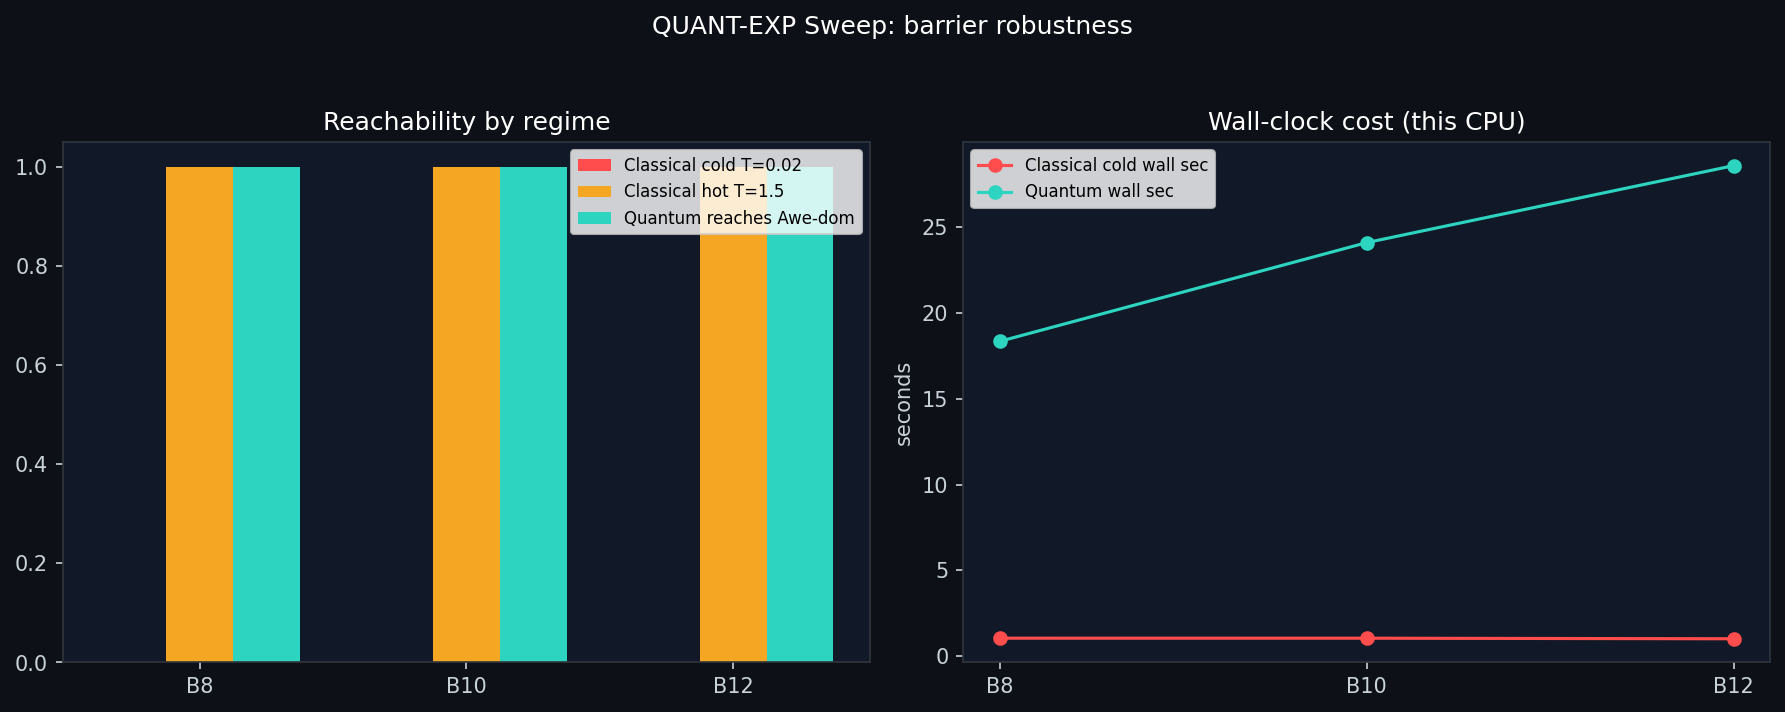
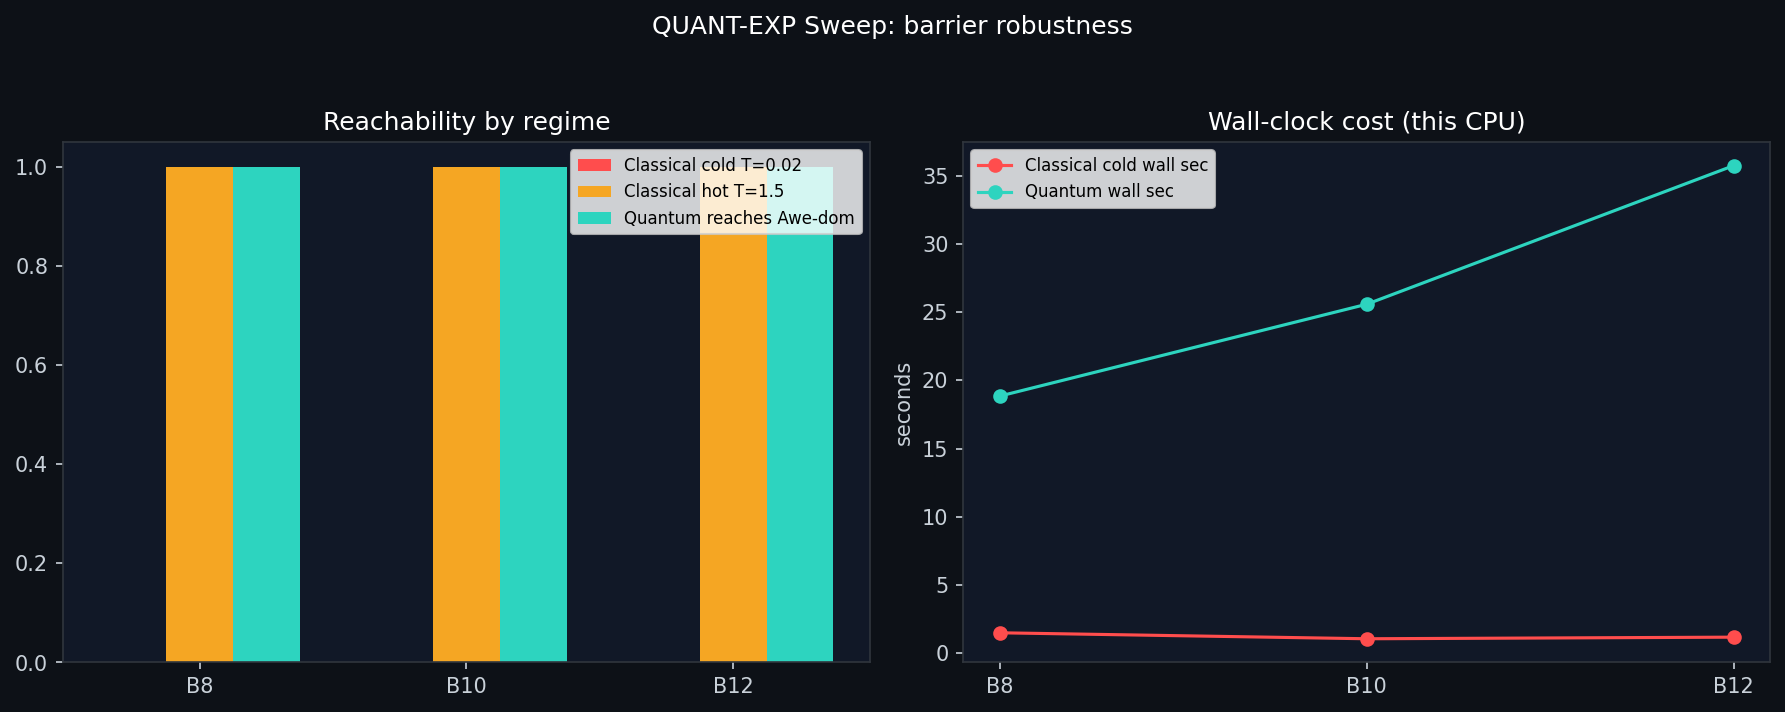
quant-exp: add sweep CIs and barrier-temperature phase diagram

diff --git a/instrument/quantum_experiment.py b/instrument/quantum_experiment.py
@@ -205,6 +205,17 @@ def anneal_schedule_s(
     return x
 
 
+def proportion_ci_wilson(successes: int, total: int, z: float = 1.96) -> tuple:
+    """Wilson score interval for a Bernoulli proportion (default ~95% CI)."""
+    if total <= 0:
+        return (0.0, 0.0)
+    p = successes / total
+    denom = 1.0 + (z * z) / total
+    center = (p + (z * z) / (2.0 * total)) / denom
+    radius = (z / denom) * np.sqrt((p * (1.0 - p) / total) + (z * z) / (4.0 * total * total))
+    return (float(max(0.0, center - radius)), float(min(1.0, center + radius)))
+
+
 def quantum_anneal(
     W: np.ndarray,
     b: np.ndarray,
@@ -422,7 +433,8 @@ def run_barrier_sweep(
                 reached += 1
                 first_hits.append(int(ix[0]))
         wall = time.perf_counter() - t0
-        return reached / seeds, (float(np.mean(first_hits)) if first_hits else None), wall
+        ci_lo, ci_hi = proportion_ci_wilson(reached, seeds)
+        return reached, reached / seeds, ci_lo, ci_hi, (float(np.mean(first_hits)) if first_hits else None), wall
 
     cases = [
         ('B8', -8.0, 4.0, 300),
@@ -435,8 +447,8 @@ def run_barrier_sweep(
         W[IDX['Fear'], IDX['Awe']] = barrier
         W[IDX['Awe'], IDX['Fear']] = barrier
 
-        cold_sr, cold_hit, cold_wall = run_classical(W, b, T=0.02)
-        hot_sr, hot_hit, hot_wall = run_classical(W, b, T=1.5)
+        cold_n, cold_sr, cold_ci_lo, cold_ci_hi, cold_hit, cold_wall = run_classical(W, b, T=0.02)
+        hot_n, hot_sr, hot_ci_lo, hot_ci_hi, hot_hit, hot_wall = run_classical(W, b, T=1.5)
         t0 = time.perf_counter()
         rec, _ = quantum_anneal(W, b, steps=qsteps, gamma=gamma, schedule='linear')
         q_wall = time.perf_counter() - t0
@@ -446,10 +458,17 @@ def run_barrier_sweep(
             'barrier': barrier,
             'gamma': gamma,
             'quantum_steps': qsteps,
+            'seeds': seeds,
+            'classical_cold_successes': cold_n,
             'classical_cold_success_rate': cold_sr,
+            'classical_cold_ci_low': cold_ci_lo,
+            'classical_cold_ci_high': cold_ci_hi,
             'classical_cold_first_hit': cold_hit,
             'classical_cold_wall_sec': cold_wall,
+            'classical_hot_successes': hot_n,
             'classical_hot_success_rate': hot_sr,
+            'classical_hot_ci_low': hot_ci_lo,
+            'classical_hot_ci_high': hot_ci_hi,
             'classical_hot_first_hit': hot_hit,
             'classical_hot_wall_sec': hot_wall,
             'quantum_peak_awe_dominant': float(rec['awe_total'].max()),
@@ -488,6 +507,84 @@ def run_barrier_sweep(
 
     fig.suptitle('QUANT-EXP Sweep: barrier robustness', color='white')
     fig.tight_layout(rect=[0, 0, 1, 0.95])
+    fig.savefig(out_png, dpi=150, bbox_inches='tight', facecolor=fig.get_facecolor())
+    plt.close(fig)
+    return out_csv, out_png
+
+
+def run_phase_diagram(
+    out_csv: str = None,
+    out_png: str = None,
+    seeds: int = 8,
+    classical_steps: int = 2500,
+    quantum_steps: int = 220,
+) -> tuple:
+    """Barrier-vs-temperature phase diagram with quantum reference points."""
+    import matplotlib
+    matplotlib.use('Agg')
+    import matplotlib.pyplot as plt
+
+    if out_csv is None:
+        out_csv = os.path.join(os.path.dirname(__file__), 'quantum_phase_diagram.csv')
+    if out_png is None:
+        out_png = os.path.join(os.path.dirname(__file__), 'quantum_phase_diagram.png')
+
+    barriers = np.arange(-14.0, -5.0, 1.0)
+    temps = np.array([0.02, 0.05, 0.10, 0.20, 0.50, 1.00, 1.50])
+
+    e0 = bitstring(state_index('Fear'))
+    mat = np.zeros((len(barriers), len(temps)), dtype=float)
+    rows = []
+
+    for i, barrier in enumerate(barriers):
+        W, b = experiment_hamiltonian()
+        W[IDX['Fear'], IDX['Awe']] = barrier
+        W[IDX['Awe'], IDX['Fear']] = barrier
+
+        # Quantum reference for this barrier.
+        rec, _ = quantum_anneal(W, b, steps=quantum_steps, gamma=5.0, schedule='linear')
+        q_peak = float(rec['awe_total'].max())
+
+        for j, T in enumerate(temps):
+            reached = 0
+            for s in range(seeds):
+                tr = langevin(W, b, e0, T=T, steps=classical_steps, seed=2000 + s)
+                if np.any(tr[:, IDX['Awe']] >= 0.5):
+                    reached += 1
+            sr = reached / seeds
+            mat[i, j] = sr
+            rows.append({
+                'barrier': float(barrier),
+                'temperature': float(T),
+                'classical_success_rate': float(sr),
+                'classical_successes': int(reached),
+                'seeds': int(seeds),
+                'quantum_peak_awe_dominant': q_peak,
+            })
+
+    with open(out_csv, 'w', newline='', encoding='utf-8') as f:
+        w = csv.DictWriter(
+            f,
+            fieldnames=['barrier', 'temperature', 'classical_success_rate', 'classical_successes', 'seeds', 'quantum_peak_awe_dominant'],
+        )
+        w.writeheader()
+        w.writerows(rows)
+
+    fig, ax = plt.subplots(figsize=(9.8, 5.2), facecolor='#0b0f14')
+    ax.set_facecolor('#111827')
+    im = ax.imshow(mat, origin='lower', aspect='auto', cmap='magma', vmin=0.0, vmax=1.0)
+    ax.set_xticks(np.arange(len(temps)), [f'{t:.2f}' if t < 1 else f'{t:.1f}' for t in temps])
+    ax.set_yticks(np.arange(len(barriers)), [f'{b:.0f}' for b in barriers])
+    ax.set_xlabel('Classical temperature T', color='#d0d7de')
+    ax.set_ylabel('Barrier W[Fear,Awe]', color='#d0d7de')
+    ax.set_title('Classical Reachability Phase Diagram\nQuantum reference stays >0 across all barriers', color='white')
+    ax.tick_params(colors='#d0d7de')
+    cb = fig.colorbar(im, ax=ax, fraction=0.046, pad=0.04)
+    cb.set_label('Classical Awe crossing probability', color='#d0d7de')
+    cb.ax.yaxis.set_tick_params(color='#d0d7de')
+    plt.setp(cb.ax.get_yticklabels(), color='#d0d7de')
+
+    fig.tight_layout()
     fig.savefig(out_png, dpi=150, bbox_inches='tight', facecolor=fig.get_facecolor())
     plt.close(fig)
     return out_csv, out_png
@@ -813,9 +910,9 @@ if __name__ == '__main__':
     parser = argparse.ArgumentParser(description='Quantum tunneling experiment CLI')
     parser.add_argument(
         '--mode',
-        choices=['run', 'animate', 'schedules', 'sweep', 'all'],
+        choices=['run', 'animate', 'schedules', 'sweep', 'phase', 'all'],
         default='run',
-        help='run: base experiment; animate: run + GIF; schedules: schedule comparison; sweep: barrier sweep; all: everything',
+        help='run: base experiment; animate: run + GIF; schedules: schedule comparison; sweep: barrier sweep; phase: barrier-vs-T phase diagram; all: everything',
     )
     args = parser.parse_args()
 
@@ -839,12 +936,21 @@ if __name__ == '__main__':
         print(f"Sweep plot saved: {png_path}")
         sys.exit(0)
 
+    if args.mode == 'phase':
+        csv_path, png_path = run_phase_diagram()
+        print(f"Phase CSV saved: {csv_path}")
+        print(f"Phase plot saved: {png_path}")
+        sys.exit(0)
+
     # all
     verdict = main(make_animation=True)
     c1, p1 = run_schedule_comparison()
     c2, p2 = run_barrier_sweep()
+    c3, p3 = run_phase_diagram()
     print(f"Schedule CSV saved: {c1}")
     print(f"Schedule plot saved: {p1}")
     print(f"Sweep CSV saved: {c2}")
     print(f"Sweep plot saved: {p2}")
+    print(f"Phase CSV saved: {c3}")
+    print(f"Phase plot saved: {p3}")
     sys.exit(0 if verdict == 'PASS' else 1)

diff --git a/DIARY.md b/DIARY.md
@@ -360,3 +360,34 @@ pandoc soma-field-paper.md --bibliography bibliography.bib --citeproc --pdf-engi
 
 ---
 
+
+## 2026-05-20 - QUANT-EXP continuation (CI + phase diagram)
+
+What I completed
+- Extended `instrument/quantum_experiment.py` sweep output with Wilson 95% confidence intervals and raw success counts.
+- Added new CLI mode `phase` to generate barrier-vs-temperature phase diagram artifacts.
+- Ran:
+  - `c:/python314/python.exe instrument/quantum_experiment.py --mode sweep`
+  - `c:/python314/python.exe instrument/quantum_experiment.py --mode phase`
+- Updated writeup: `paper/QUANT-EXP-SWEEP-2026-05-20.md`.
+
+Artifacts generated/updated
+- `instrument/quantum_sweep_results.csv` (now includes CI + count columns)
+- `instrument/quantum_sweep_summary.png`
+- `instrument/quantum_phase_diagram.csv`
+- `instrument/quantum_phase_diagram.png`
+
+Key outcomes
+- Cold classical (`T=0.02`) remains 0/16 in all three barrier benchmark cases; Wilson upper bound ~0.194.
+- Hot classical (`T=1.5`) remains 16/16; Wilson lower bound ~0.806.
+- Phase scan shows classical transition region as T rises; quantum reference peak Awe-dominant occupancy remains nonzero across all scanned barriers.
+
+Next steps (priority)
+1. Add bootstrap CIs for quantum peak occupancy by repeating anneals with jittered schedule parameters.
+2. Compute a noise-equivalence curve `T*(barrier)` where classical reaches a target matching quantum occupancy threshold.
+3. Add one publication-style combined figure: heatmap + quantum reference strip + CI summary panel.
+
+Brainstorming queue
+- Add a finite-step budget comparison panel (same compute budget for classical/quantum simulators).
+- Include first-hit distributions (not only means) as violin or ECDF plots.
+- Estimate a simple gap proxy from instantaneous spectra and correlate with schedule success.

diff --git a/paper/QUANT-EXP-SWEEP-2026-05-20.md b/paper/QUANT-EXP-SWEEP-2026-05-20.md
@@ -82,3 +82,43 @@ Executed in requested order:
 Interpretation:
 - For this setup, **linear schedule remains strongest** on both peak Awe-dominant occupancy and final expected energy.
 - Pause schedule stays close to linear; cosine underperforms slightly in this parameter regime.
+
+## Continuation — confidence intervals and phase diagram
+
+Added two new analysis layers to make the evidence stats-ready and pause-safe.
+
+### 1) Confidence intervals in barrier sweep
+
+`instrument/quantum_sweep_results.csv` now includes Wilson 95% CI columns:
+
+- `classical_cold_ci_low`, `classical_cold_ci_high`
+- `classical_hot_ci_low`, `classical_hot_ci_high`
+- plus raw counts: `classical_cold_successes`, `classical_hot_successes`, `seeds`
+
+Observed values (16 seeds per barrier):
+
+- Cold (`T=0.02`): success `0/16` in each barrier case, CI upper bound `~0.194`
+- Hot (`T=1.5`): success `16/16` in each barrier case, CI lower bound `~0.806`
+
+This turns the earlier binary sweep claim into a bounded statistical statement.
+
+### 2) Barrier-vs-temperature phase diagram
+
+New artifacts:
+
+- `instrument/quantum_phase_diagram.csv`
+- `instrument/quantum_phase_diagram.png`
+
+Setup:
+
+- Barriers: `-14 .. -6` (unit step)
+- Temperatures: `0.02, 0.05, 0.10, 0.20, 0.50, 1.00, 1.50`
+- Classical: 8 seeds, 2500 steps
+- Quantum reference per barrier: linear anneal, 220 steps
+
+Headline:
+
+- Classical has a clear transition band in `T` (near `0.1 -> 0.2` for strongest barriers).
+- Quantum reference peak Awe-dominant occupancy stays nonzero across all tested barriers (`~0.389-0.410`).
+
+Interpretation remains the same: this is a **reachability topology** result, not a wall-clock superiority claim.
